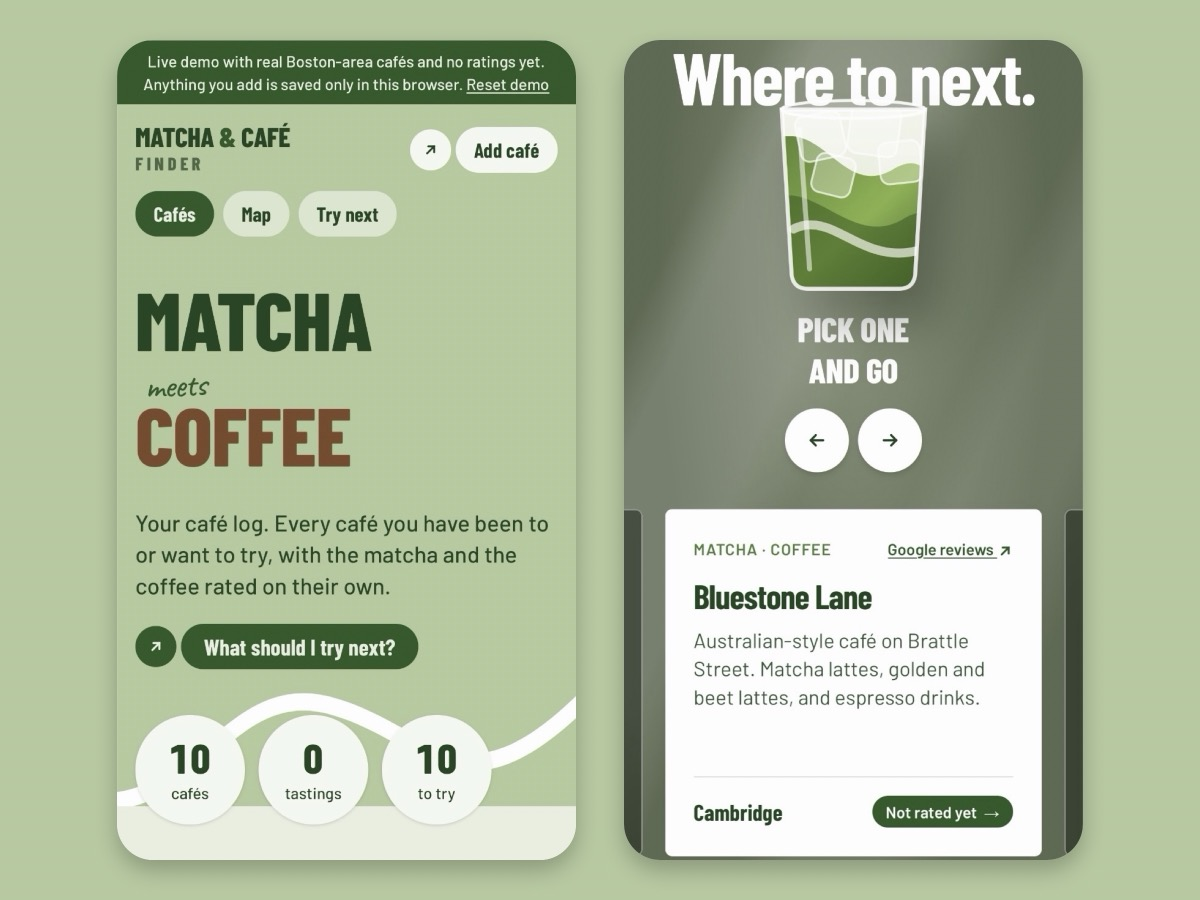
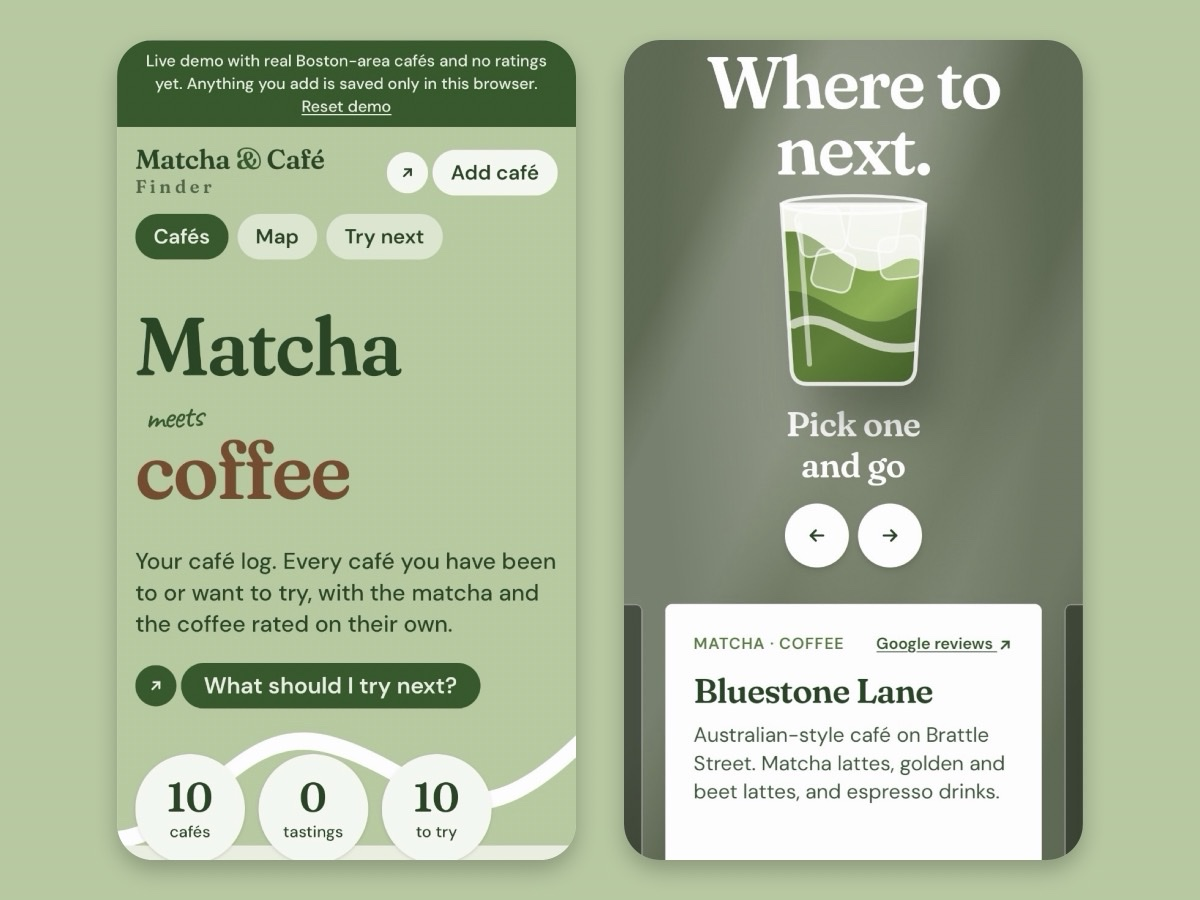
Refresh café finder screenshot with new fonts

Changed region(s): [[0.0925, 0.0622, 0.4933, 0.9644], [0.4933, 0.0622, 0.925, 0.9644]]

diff --git a/index.html b/index.html
@@ -262,7 +262,7 @@
           <p class="project-links"><a class="text-link" href="https://noorissa25.github.io/matcha-cafe-finder/" target="_blank" rel="noopener">See it live<svg viewBox="0 0 24 24" aria-hidden="true"><path d="M8 16L16 8M9 8h7v7"/></svg></a><a class="text-link" href="https://github.com/noorissa25/matcha-cafe-finder" target="_blank" rel="noopener">See the code on GitHub<svg viewBox="0 0 24 24" aria-hidden="true"><path d="M8 16L16 8M9 8h7v7"/></svg></a></p>
         </div>
         <figure class="project-visual visual-shot">
-          <img src="assets/projects/matcha-phones.jpg" width="1200" height="900" alt="Two phone screens from Matcha &amp; Café Finder: the home page reading Matcha meets Coffee with café counts, and the Where to next carousel showing Bluestone Lane with a link to its Google reviews." loading="lazy">
+          <img src="assets/projects/matcha-phones.jpg?v=2" width="1200" height="900" alt="Two phone screens from Matcha &amp; Café Finder: the home page reading Matcha meets coffee with café counts, and the Where to next carousel showing Bluestone Lane with a link to its Google reviews." loading="lazy">
         </figure>
       </article>
 
